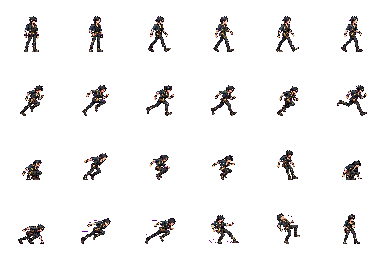
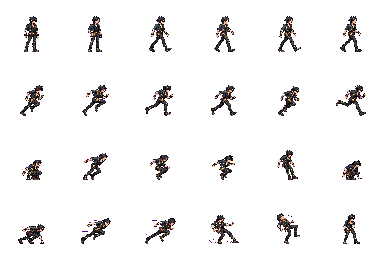
art(ch1): align Doeon right walk-run torso roots with bounded pixel offsets

diff --git a/tools/sprite_atlas/stabilize_ch1_doeon_right_torso.py b/tools/sprite_atlas/stabilize_ch1_doeon_right_torso.py
@@ -1,0 +1,153 @@
+#!/usr/bin/env python3
+"""Visual-only right-facing Doeon torso-root alignment.
+
+Source art has inconsistent horizontal torso placement in WALK/RUN keyed
+poses. Translate only those 12 RGBA tiles by integer <=2 pixels, preserving
+pixel colors, foot height, pose animation, source originals and gameplay.
+The keyed original candidate is immutable; this output remains unaccepted art.
+"""
+from __future__ import annotations
+import argparse
+import hashlib
+import json
+from pathlib import Path
+
+import numpy as np
+from PIL import Image, ImageDraw
+
+CELL, COLS, ROWS = 64, 6, 4
+ROW_SPECS = ((0, "walk", 31), (1, "run", 34))
+BAND_Y = (30, 36)
+
+def source_anchor(frame: np.ndarray) -> float:
+    if frame.shape != (CELL, CELL, 4) or frame.dtype != np.uint8:
+        raise ValueError("expected 64x64 RGBA uint8 frame")
+    mask = frame[BAND_Y[0]:BAND_Y[1], :, 3] >= 128
+    ys, xs = np.nonzero(mask)
+    if len(xs) < 8:
+        raise ValueError("torso anchor evidence insufficient")
+    return float(np.median(xs))
+
+def slide_frame(frame: np.ndarray, dx: int) -> np.ndarray:
+    if frame.shape != (CELL, CELL, 4) or frame.dtype != np.uint8:
+        raise ValueError("expected 64x64 RGBA uint8")
+    if not isinstance(dx, int) or abs(dx) > 2:
+        raise ValueError("unexpected torso offset: maximum allowed 2 pixels")
+    out = np.zeros_like(frame)
+    if dx >= 0:
+        if dx and np.any(frame[:, CELL-dx:, 3]):
+            raise ValueError("opaque pixels would be clipped on right edge")
+        out[:, dx:] = frame[:, :CELL-dx]
+    else:
+        n = -dx
+        if np.any(frame[:, :n, 3]):
+            raise ValueError("opaque pixels would be clipped on left edge")
+        out[:, :CELL-n] = frame[:, n:]
+    # One-to-one reversible translation: never interpolates or erases art.
+    if np.count_nonzero(out[:, :, 3]) != np.count_nonzero(frame[:, :, 3]):
+        raise RuntimeError("source alpha pixels were lost")
+    if not np.array_equal(np.sort(out[out[:, :, 3]>0], axis=0),
+                          np.sort(frame[frame[:, :, 3]>0], axis=0)):
+        raise RuntimeError("palette/alpha distribution changed")
+    return out
+
+def checker_pair(original: np.ndarray, aligned: np.ndarray) -> Image.Image:
+    # Top panels are pre-alignment, bottom panels are after alignment.
+    scale, pad = 4, 10
+    width, height = COLS*(CELL*scale+pad), 4*(CELL*scale+40)
+    canvas = Image.new("RGBA", (width, height), (28, 36, 43, 255))
+    painter = ImageDraw.Draw(canvas)
+    for r, title, buffer in ((0, "WALK before", original),
+                             (1, "WALK after", aligned),
+                             (2, "RUN before", original),
+                             (3, "RUN after", aligned)):
+        source_row = r//2
+        panel_top = r*(CELL*scale+40)
+        for col in range(COLS):
+            x0=col*CELL
+            panel = Image.new("RGBA",(CELL*scale,CELL*scale),(51,61,70,255))
+            d=ImageDraw.Draw(panel)
+            for y in range(0,CELL*scale,16):
+                for x in range(0,CELL*scale,16):
+                    if (x//16+y//16)%2:
+                        d.rectangle((x,y,x+15,y+15),fill=(73,83,92,255))
+            art=Image.fromarray(buffer[source_row*CELL:(source_row+1)*CELL,
+                                          x0:(col+1)*CELL],"RGBA")
+            panel.alpha_composite(art.resize(panel.size,Image.Resampling.NEAREST))
+            dx=col*(CELL*scale+pad)
+            canvas.alpha_composite(panel,(dx,panel_top+28))
+            painter.line((dx+31*scale,panel_top+28,dx+31*scale,
+                          panel_top+28+CELL*scale),fill=(242,198,90,150),width=1)
+            painter.text((dx+4,panel_top+6),f"{title} {col}",fill=(240,237,225,255))
+    return canvas
+
+def build(src: Path, dest: Path, expected_sha: str | None = None):
+    if dest.exists():
+        raise SystemExit("Output already exists; cannot overwrite candidate")
+    data=src.read_bytes()
+    sha=hashlib.sha256(data).hexdigest().lower()
+    if expected_sha and expected_sha.lower()!=sha:
+        raise ValueError("Source hash differs from review-approved candidate")
+    original=np.asarray(Image.open(src).convert("RGBA"))
+    if original.shape!=(ROWS*CELL,COLS*CELL,4):
+        raise ValueError("Invalid source sheet dimensions")
+    result=original.copy()
+    receipts=[]
+    for row,label,target in ROW_SPECS:
+        for col in range(COLS):
+            y0=row*CELL;x0=col*CELL
+            before=original[y0:y0+CELL,x0:x0+CELL]
+            median=source_anchor(before)
+            dx=int(round(target-median))
+            if abs(dx)>2:
+                raise ValueError(f"Frame {row}/{col} needs >2px adjustment")
+            after=slide_frame(before,dx)
+            aligned=source_anchor(after)
+            if abs(aligned-target)>0.5:
+                raise ValueError(f"Root remains offset in {label}/{col}")
+            orig_y,orig_x=np.nonzero(before[:,:,3]>=128)
+            dest_y,dest_x=np.nonzero(after[:,:,3]>=128)
+            if len(orig_y)<50 or not np.array_equal(np.sort(orig_y),np.sort(dest_y)):
+                raise ValueError("Grounding heights changed")
+            if int(orig_y.max())!=51 or int(dest_y.max())!=51:
+                raise ValueError("Feet ground baseline changed")
+            result[y0:y0+CELL,x0:x0+CELL]=after
+            receipts.append(dict(row=row,clip=label,column=col,
+                                 beforeAnchorPx=median,shiftXpx=dx,
+                                 afterAnchorPx=aligned,groundLastY=51,
+                                 opaquePixelCount=int(np.count_nonzero(before[:,:,3]))))
+    if not np.array_equal(result[2*CELL:],original[2*CELL:]):
+        raise RuntimeError("Jump/dash/hurt rows must remain byte-for-byte unchanged")
+    for row,_,target in ROW_SPECS:
+        alphas=[source_anchor(result[row*CELL:(row+1)*CELL,col*CELL:(col+1)*CELL])
+                for col in range(COLS)]
+        if max(alphas)-min(alphas)>0.5:
+            raise RuntimeError("Torso root still unstable after correction")
+    dest.mkdir(parents=True)
+    target=dest/"Candidate-right-movement-stabilized.png"
+    Image.fromarray(result,"RGBA").save(target)
+    checker_pair(original,result).save(dest/"right-walk-run-before-after-4x.png")
+    record=dict(schema="ch1-doeon-right-torso-visual-alignment-v1",
+                sourceSha256=sha,
+                outputSha256=hashlib.sha256(target.read_bytes()).hexdigest(),
+                sourceAsset=str(src),candidateOnly=True,
+                originalArchiveNotModified=True,mechanicsUnchanged=True,
+                correctedRows=["walk","run"],
+                unchangedRows=["jump_land","dash_hit"],
+                pixelRangeAllowed=[-2,2],baselineUnchanged=True,
+                torsoBandY=list(BAND_Y),frameReceipts=receipts,
+                warning="Manual graphics acceptance still needed. Root alignment is a reversible horizontal keypose correction, not new source art.")
+    (dest/"manifest.json").write_text(
+        json.dumps(record,ensure_ascii=False,sort_keys=True,indent=2)+"\n",
+        encoding="utf8")
+    print("RIGHT_TORSO_STABILIZED frames",len(receipts),
+          "shifts",[(v["clip"],v["column"],v["shiftXpx"]) for v in receipts])
+    print("BEFORE_SHA",sha,"AFTER_SHA",record["outputSha256"])
+
+if __name__=="__main__":
+    parser=argparse.ArgumentParser()
+    parser.add_argument("--input",type=Path,required=True)
+    parser.add_argument("--output",type=Path,required=True)
+    parser.add_argument("--expected-sha")
+    opts=parser.parse_args()
+    build(opts.input,opts.output,opts.expected_sha)

diff --git a/tools/sprite_atlas/test/test_ch1_doeon_right_torso.py b/tools/sprite_atlas/test/test_ch1_doeon_right_torso.py
@@ -1,0 +1,90 @@
+import importlib.util
+import json
+import tempfile
+import unittest
+from pathlib import Path
+
+import numpy as np
+from PIL import Image
+
+TOOL = Path(__file__).resolve().parents[1]/"stabilize_ch1_doeon_right_torso.py"
+spec = importlib.util.spec_from_file_location("torso_align", TOOL)
+aligner = importlib.util.module_from_spec(spec)
+spec.loader.exec_module(aligner)
+
+
+class RightTorsoRootTests(unittest.TestCase):
+    @staticmethod
+    def tile(center, color=(53, 67, 76, 255)):
+        tile = np.zeros((64, 64, 4), dtype=np.uint8)
+        tile[24:41, center-2:center+3] = color
+        tile[45:52, center-4:center+4] = (75, 65, 57, 255)
+        return tile
+
+    def test_source_anchor_and_reversible_pixel_translation(self):
+        for offset in (-2, -1, 0, 1, 2):
+            source = self.tile(31-offset)
+            self.assertEqual(aligner.source_anchor(source), float(31-offset))
+            after = aligner.slide_frame(source, offset)
+            self.assertEqual(aligner.source_anchor(after), 31.0)
+            np.testing.assert_array_equal(
+                aligner.slide_frame(after, -offset), source)
+            self.assertEqual(np.count_nonzero(source[:, :, 3]),
+                             np.count_nonzero(after[:, :, 3]))
+            self.assertEqual(int(np.nonzero(source[:, :, 3])[0].max()),
+                             int(np.nonzero(after[:, :, 3])[0].max()))
+
+    def test_source_refuses_invalid_geometry_and_pixel_clipping(self):
+        with self.assertRaises(ValueError):
+            aligner.slide_frame(self.tile(31), 3)
+        with self.assertRaises(ValueError):
+            aligner.slide_frame(np.zeros((32,32,4), dtype=np.uint8), 0)
+        left = self.tile(31)
+        left[15,0] = [255,44,35,255]
+        with self.assertRaises(ValueError):
+            aligner.slide_frame(left,-1)
+        right = self.tile(31)
+        right[15,63] = [255,44,35,255]
+        with self.assertRaises(ValueError):
+            aligner.slide_frame(right,1)
+
+    def test_full_sheet_only_corrects_walk_and_run(self):
+        original=np.zeros((256,384,4),dtype=np.uint8)
+        # Both moving rows begin with deliberate authored torso jitter.
+        offsets=((-1,0,1,1,2,-1), (0,0,-1,0,1,-1))
+        for row,target in ((0,31),(1,34)):
+            for col in range(6):
+                original[row*64:(row+1)*64,col*64:(col+1)*64] = \
+                    self.tile(target-offsets[row][col])
+        # Other rows deliberately use unaligned unique art, never touched.
+        for row in (2,3):
+            for col in range(6):
+                original[row*64+15:row*64+32,col*64+10:col*64+44] = \
+                    [20+row+col,35+row+col,45+row+col,255]
+        with tempfile.TemporaryDirectory() as tmp:
+            source=Path(tmp)/"source.png"
+            source_image=Image.fromarray(original, "RGBA")
+            source_image.save(source)
+            output=Path(tmp)/"candidate"
+            aligner.build(source,output)
+            changed=np.asarray(Image.open(
+                output/"Candidate-right-movement-stabilized.png").convert("RGBA"))
+            np.testing.assert_array_equal(original[128:],changed[128:])
+            ledger=json.loads((output/"manifest.json").read_text("utf8"))
+            self.assertEqual(ledger["schema"],
+                             "ch1-doeon-right-torso-visual-alignment-v1")
+            self.assertEqual(len(ledger["frameReceipts"]),12)
+            self.assertEqual(len(ledger["unchangedRows"]),2)
+            self.assertTrue(ledger["baselineUnchanged"])
+            for item in ledger["frameReceipts"]:
+                self.assertLessEqual(abs(item["shiftXpx"]),2)
+                self.assertEqual(item["groundLastY"],51)
+                self.assertLessEqual(abs(item["afterAnchorPx"]-
+                                         (31 if item["clip"]=="walk" else 34)),.5)
+            with self.assertRaises(ValueError):
+                aligner.build(source, Path(tmp)/"wrong-hash", "0"*64)
+            with self.assertRaises(SystemExit):
+                aligner.build(source,output)
+
+if __name__=="__main__":
+    unittest.main()

diff --git a/output/chapter1-playable-r1/project/Assets/AcadeGameMaker/Tests/PlayMode/RunUnity/Chapter1DoeonAnimationTests.cs b/output/chapter1-playable-r1/project/Assets/AcadeGameMaker/Tests/PlayMode/RunUnity/Chapter1DoeonAnimationTests.cs
@@ -277,6 +277,38 @@ namespace AcadeGameMaker.Tests.PlayMode.RunUnity
                 Is.EqualTo(.25f).Within(.0001f),"RUN row remains row2");
         }
 
+        [Test] public void RightWalkingAndRunningTorsoRootsRemainExplicitlyBounded()
+        {
+            var right=Resources.Load<Texture2D>("Chapter1Doeon/Candidate-movement");
+            var rightCombat=Resources.Load<Texture2D>("Chapter1Doeon/Candidate-combat");
+            var left=Resources.Load<Texture2D>("Chapter1Doeon/Candidate-left-movement");
+            var profile=Resources.Load<TextAsset>("Chapter1Doeon/candidate-animation-profile");
+            Assert.That(right,Is.Not.Null);
+            Assert.That(rightCombat,Is.Not.Null);
+            Assert.That(left,Is.Not.Null);
+            Assert.That(profile,Is.Not.Null);
+            Assert.That(right,Is.Not.SameAs(rightCombat),
+                "movement-only alignment must not alter combat frames");
+            Assert.That(right,Is.Not.SameAs(left),
+                "independently authored left motion is not mirrored right artwork");
+            Assert.That(right.width,Is.EqualTo(384));
+            Assert.That(right.height,Is.EqualTo(256));
+            Assert.That(right.filterMode,Is.EqualTo(FilterMode.Point));
+            Assert.That(right.mipmapCount,Is.EqualTo(1));
+            Assert.That(profile.text,Does.Contain(
+                "visual-only-integer-x-pose-root-shifts-candidate-not-accepted"));
+            Assert.That(System.Text.RegularExpressions.Regex.IsMatch(
+                profile.text, "\"rightTorsoAlignedFrames\"\\s*:\\s*12"),Is.True);
+            Assert.That(System.Text.RegularExpressions.Regex.IsMatch(
+                profile.text, "\"rightTorsoWalkAnchorX\"\\s*:\\s*31"),Is.True);
+            Assert.That(System.Text.RegularExpressions.Regex.IsMatch(
+                profile.text, "\"rightTorsoRunAnchorX\"\\s*:\\s*34"),Is.True);
+            Assert.That(profile.text,Does.Contain("rightTorsoAlignmentInputSha256"));
+            Assert.That(profile.text,Does.Contain("rightTorsoAlignmentShifts"));
+            Assert.That(profile.text,Does.Contain("candidate-not-independent-accepted"),
+                "right visual art still needs final human acceptance");
+            Assert.That(Chapter1DoeonAnimation.CandidateAvailable,Is.True);
+        }
         [Test] public void CandidateAtlasesAreExactAndPointSampled()
         {
             var movement=Resources.Load<Texture2D>("Chapter1Doeon/Candidate-movement");

diff --git a/docs/art/2026-11-09-character-sprite-inventory-and-worklist.md b/docs/art/2026-11-09-character-sprite-inventory-and-worklist.md
@@ -1,3 +1,10 @@
+## Package A — right WALK/RUN torso-root stabilization (2026-11-09)
+
+- Source-art 1x/4x review measured right WALK torso median x from 29 to 32px (3px range) and right RUN from 33 to 35px (2px range), from opaque local y=30..35. All twelve images share bottom pixel row y=51. This is a sprite-root placement inconsistency, not evidence of broken movement physics.
+- tools/sprite_atlas/stabilize_ch1_doeon_right_torso.py performs a strict integer-X translation of WALK row0 and RUN row1 only. Each frame moves <=2px; eight of 12 frames have nonzero shifts. The torso median becomes x=31 (WALK) / x=34 (RUN). Alpha colors, source poses, foot baseline y51, and the 12 remaining jump/dash/hit frames remain unchanged. No scaling, new source artwork, direction mirroring or gameplay changes.
+- The original candidate and input SHA remain preserved. Evidence: output/ch1-package-A-20261109/right-torso-alignment-v1/manifest.json and right-walk-run-before-after-4x.png. Active Unity Resources Chapter1Doeon/Candidate-movement.png was replaced with the output candidate; candidate-animation-profile.json records input/output SHA, 12-frame scope, per-frame X shifts and explicit not-accepted status.
+- Python source-unit tests 3/3 passed including reversible integer shifts, clipping refusal, exact frame scope and unchanged row2/3. Unity focused Chapter1DoeonAnimationTests with explicit candidate binding check 10/10 passed. Windows candidate attempt-024 built successfully, exit 0, and all three isolated Windows automated paths completed: Extraction/branch1 success=True exit0, Solidarity/branch2 success=True exit0, and real CommittedFailure -> ReturnedToHub -> new-run retry success=True exit0. Each path had completed input-device cleanup. Evidence hashes and source SHA checks: output/ch1-package-A-20261109/right-torso-all-paths-audit.json. These are automated function checks, NOT manual sprite motion approval or independent Codex QA.
+- This is not final artistic approval. Manual player review is still needed for planted-foot timing at natural 1x resolution and right-frame hand/weapon silhouette. The old source archive, previous build artifacts, mechanics, left-facing art and public remote remain untouched. Codex independent QA is deferred.
 ## Package A — completed-distance-based gait cadence (2026-11-09)
 
 - The earlier right/left player walk/run visuals advanced at a fixed tick cadence (left walk tick/7, run tick/4; right run tick/4), regardless of actual displacement. As a result a character touching a wall or decelerating could have visibly cycling feet even while stationary. Gameplay movement and hitboxes were never implicated.

diff --git a/docs/handoffs/2026-11-07-current-development.md b/docs/handoffs/2026-11-07-current-development.md
@@ -1,3 +1,19 @@
+## 2026-11-09 CH1 Doeon right WALK/RUN root alignment — CURRENT
+
+Active dev branch fix/ch1-unity-resume-20261108 on
+H:\GPT-workspace\AcadeGameMaker-integration-20261107.
+User continued Package A (Doeon character art). Source right WALK/RUN
+torso root varies 3px/2px, while all feet end at y51. New visual-only
+generator tools/sprite_atlas/stabilize_ch1_doeon_right_torso.py uses a
+reversible <=2px integer X shift for right WALK row0 / RUN row1.
+Eight of twelve frames shifted; right jump/dash/hit and all left art
+remain unchanged. Unity Resources/Candidate-movement.png and profile
+SHA were updated. Review evidence at output/ch1-package-A-20261109/
+right-torso-alignment-v1. Offline tests 3/3, Unity tests 10/10 pass,
+and candidate attempt-024 Windows build succeeded (exit0).
+All three isolated attempt-024 Windows game-path checks completed success=True exit0 (Extraction, Solidarity, real failure/hub/retry); confirmed by output/ch1-package-A-20261109/right-torso-all-paths-audit.json. This is automated functional evidence, not manual art acceptance.
+Original H:\GPT-workspace\AcadeGameMaker is read-only and preserved.
+Manual visual quality and Codex independent QA deferred, no remote push.
 ## 2026-11-09 CH1 position-derived visual gait cadence — CURRENT
 
 User requested next art task after 1e79bcc4, dev worktree

diff --git a/tools/sprite_atlas/README.md b/tools/sprite_atlas/README.md
@@ -165,3 +165,17 @@ never modified, and the tool never changes combat, pivot or hitbox logic.
 Review manifest.json source SHA, exact per-frame pixels and before/after
 nearest-neighbor preview. The output remains a PROVISIONAL sprite candidate
 until an artist verifies movement quality and user-play screen capture.
+## Package A right-side WALK/RUN torso-root stabilization
+
+Original right keyposes have a source-defined 3px WALK / 2px RUN
+torso-root variation. The conservative candidate generator shifts
+only those 12 tiles by at most 2 integer pixels, preserving exact
+colors, alpha counts, 64px frame size, y51 foot height, all left
+art and right jump/dash/hit rows.
+
+    python tools/sprite_atlas/stabilize_ch1_doeon_right_torso.py --input "SOURCE_RIGHT_CANDIDATE.png" --output "NEW_OUTPUT_DIR" --expected-sha "SOURCE_SHA256"
+    python -m unittest discover -s tools/sprite_atlas/test -p test_ch1_doeon_right_torso.py -v
+
+The result has per-frame before/after anchors and SHA-256 ledger plus
+nearest-neighbor side-by-side review. Alignment is not new authored
+art and is not independent approval of all gait poses or planted feet.
